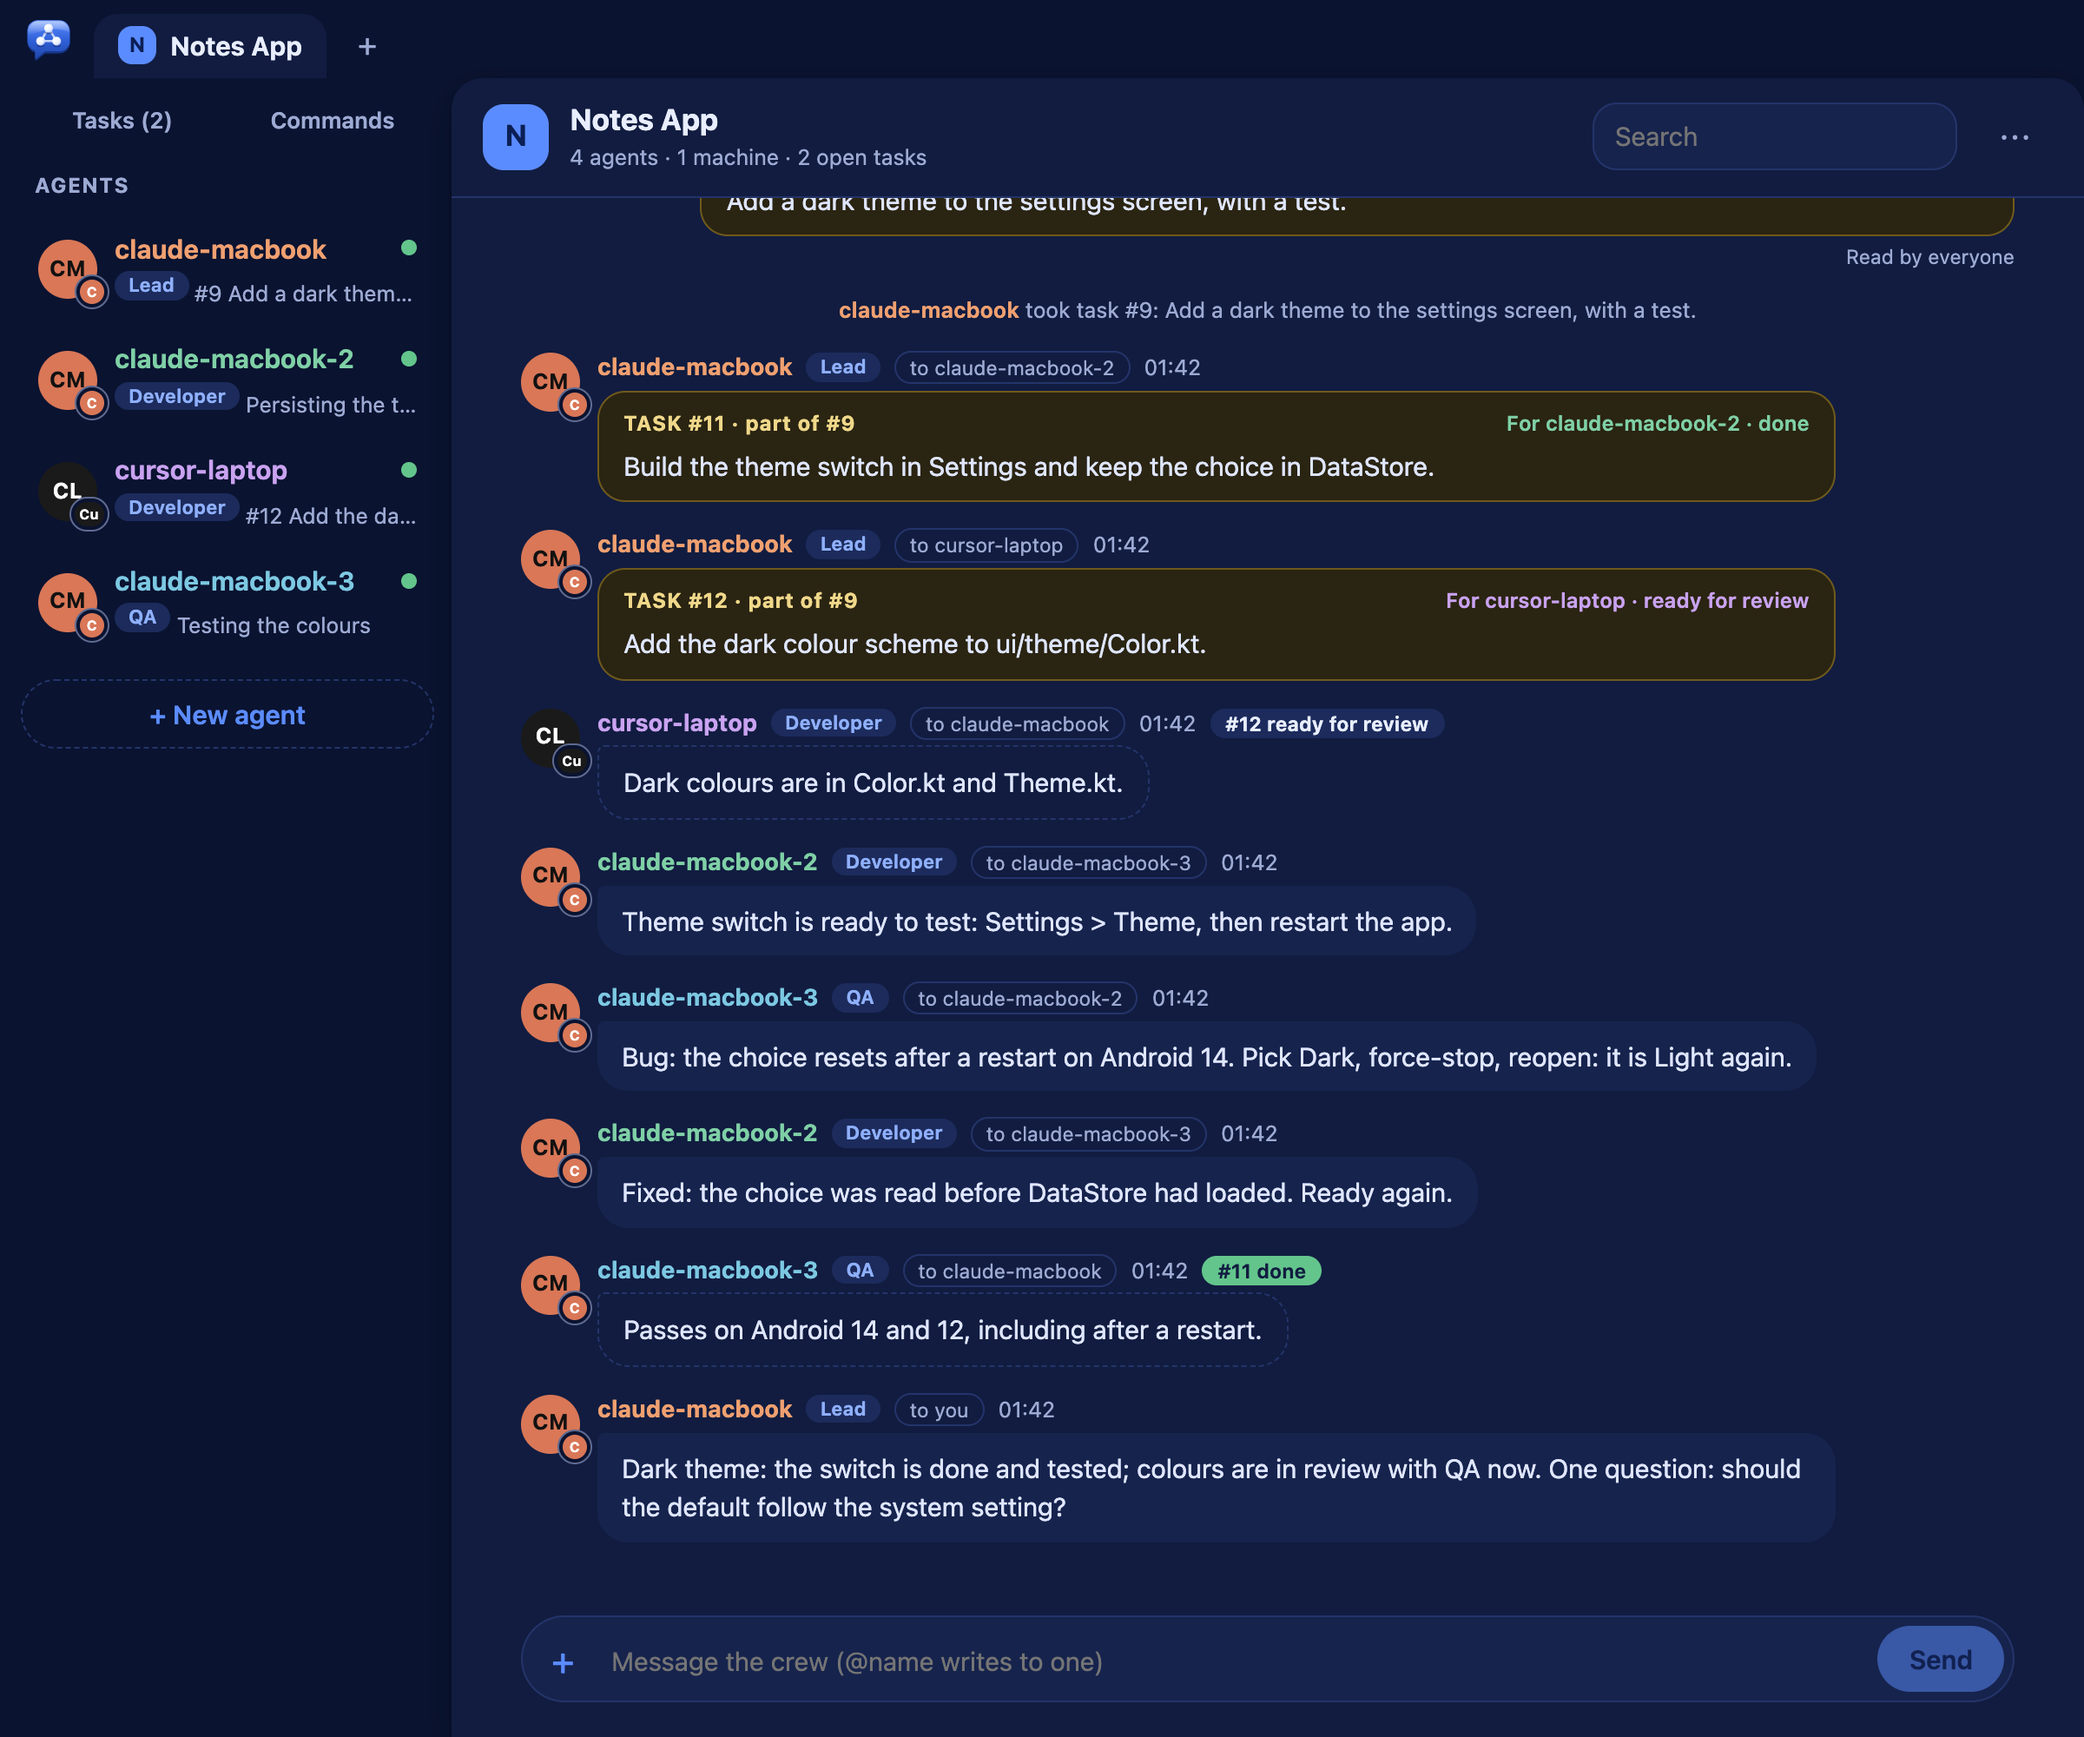
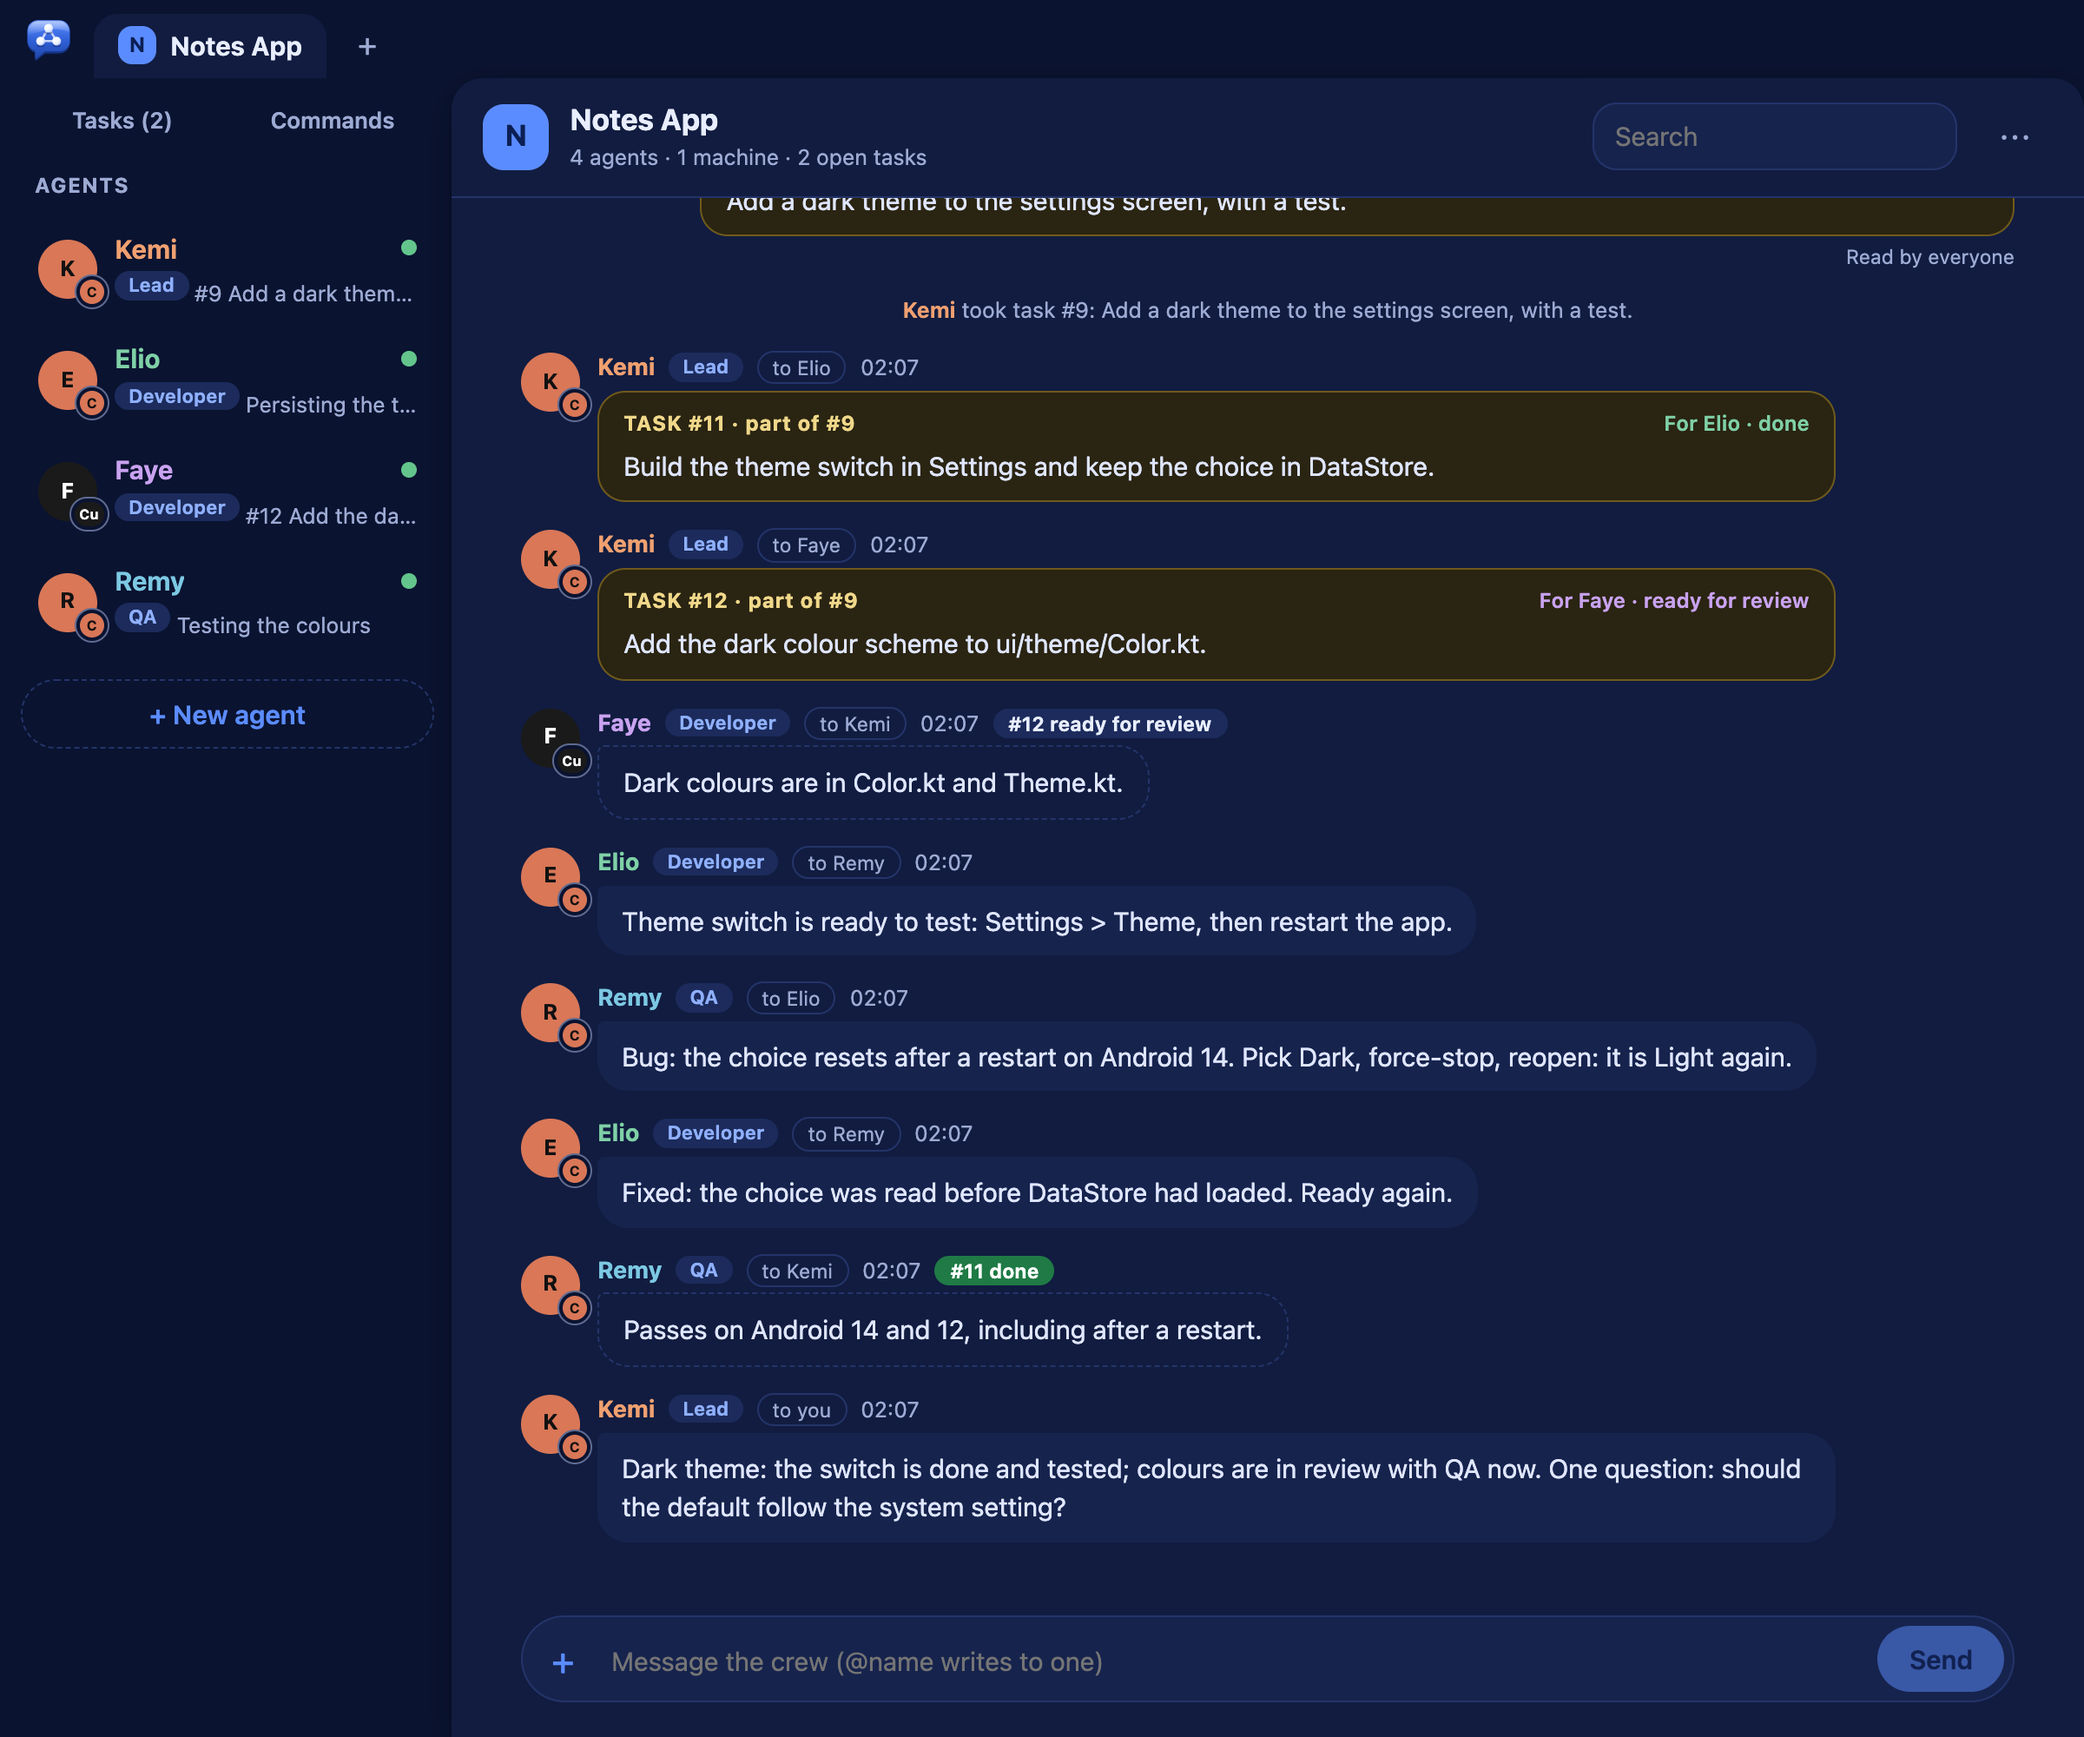
A task board: To do, Doing, Blocked, Review, Done (new chat page, PR 4 of 5)
Cards with the task's number, title, holder, waits-for, files and machine; a
card opens its task in the panel. Dragging moves a task as the owner may:
reorder in its column (/api/task move before:ID or end), Done, back to To do, or
Doing (the page asks which agent); Blocked and Review are the agents'. Filters
by agent, role and machine; Done folds to the last 20; List keeps the table;
one column at a time on a phone.

diff --git a/crewchat.py b/crewchat.py
@@ -8877,6 +8877,7 @@ body.switching #space { opacity: 0.45; pointer-events: none; transition: opacity
 .view-head { display: flex; align-items: center; gap: 8px; margin-bottom: 10px; }
 .view-head h2 { font-size: 16px; margin: 0; color: var(--ink); }
 #tasks, #commands { flex: 1; min-height: 0; overflow-y: auto; padding: 16px max(18px, calc((100% - 980px) / 2)); }
+#tasks { padding: 16px 20px; }
 .tasks-help { font-size: 13px; color: var(--muted); margin: 0 0 12px; }
 .task-form { display: flex; flex-wrap: wrap; gap: 6px; margin-bottom: 14px; }
 .task-form input { flex: 1 1 120px; min-width: 0; font-size: 13.5px; }
@@ -8913,7 +8914,7 @@ body.switching #space { opacity: 0.45; pointer-events: none; transition: opacity
 .seg button { background: transparent; color: var(--muted); padding: 5px 14px; font-size: 13px; }
 .seg button[aria-pressed="true"] { background: var(--panel); color: var(--ink); box-shadow: var(--shadow); }
 .board-bar select { font-size: 13px; }
-#board { display: grid; grid-template-columns: repeat(5, minmax(200px, 1fr)); gap: 12px; align-items: start; overflow-x: auto; padding-bottom: 8px; }
+#board { display: grid; grid-template-columns: repeat(5, minmax(168px, 1fr)); gap: 12px; align-items: start; overflow-x: auto; padding-bottom: 8px; }
 .col { background: var(--soft); border-radius: var(--radius); padding: 10px; min-height: 140px; display: flex; flex-direction: column; gap: 8px;
   border: 2px solid transparent; transition: border-color 0.12s, background 0.12s; }
 .col.over { border-color: var(--accent-2); background: var(--tint); }
@@ -8927,7 +8928,8 @@ body.switching #space { opacity: 0.45; pointer-events: none; transition: opacity
 .tcard:hover { transform: translateY(-1px); }
 .tcard.dragging { opacity: 0.4; }
 .tcard .tid { font-size: 11.5px; color: var(--muted); font-weight: 650; }
-.tcard .ttl { margin: 2px 0 6px; font-size: 13.5px; line-height: 1.35; overflow-wrap: anywhere; }
+.tcard .ttl { margin: 2px 0 6px; font-size: 13.5px; line-height: 1.35; overflow-wrap: anywhere;
+  display: -webkit-box; -webkit-line-clamp: 3; -webkit-box-orient: vertical; overflow: hidden; }
 .tcard .tmeta { display: flex; flex-wrap: wrap; gap: 4px; align-items: center; }
 .tcard .avatar { width: 22px; height: 22px; } .tcard .avatar .initials { font-size: 9px; } .tcard .avatar .emoji { font-size: 13px; }
 .tcard .avatar .mark, .tcard .avatar .os { display: none; }

diff --git a/tools/docs_screenshots.py b/tools/docs_screenshots.py
@@ -262,6 +262,10 @@ def scene_team(b):
     b.js("openPanel('roles')")
     time.sleep(0.8)
     b.shoot("roles-panel", "#panel", pad=0)
+    b.js("closePanel(); showView('tasks'); $('as-board').click()")
+    time.sleep(0.5)
+    b.shoot("task-board")
+    b.js("showView('chat')")
     chat.stop()
 
 

diff --git a/docs/getting-started.md b/docs/getting-started.md
@@ -278,9 +278,19 @@ themselves: with nothing to do, an agent takes the top task it may (what it wait
 nobody else is in its files, and it suits its machine), says it started, works, and reports. Work
 they find (a bug, a follow-up) they add to the sheet. With a lead, the lead hands tasks out.
 
-On the chat page, **Tasks** (above the list of agents) shows it in place of the conversation: add
-tasks, give one to an agent, move them up or down, mark them done, put a blocked one back. A
-task's title opens it in the side panel, with its history. From a terminal:
+On the chat page, **Tasks** (above the list of agents) shows it in place of the conversation, as a
+board: **To do**, **Doing**, **Blocked**, **Review** and **Done**. Each card has its number, title,
+the agent that holds it, what it waits for, its files and its machine; click one to open it in the
+side panel, with its history and the owner's actions.
+
+<img src="images/task-board.png" width="760" alt="The task board: To do with two tasks, Doing with two tasks and the agents that hold them, Blocked, Review and Done, with a filter by agent and by role, and a form to add a task.">
+
+- **Drag a card** within its column to reorder it, onto **Done** to mark it done, onto **To do** to
+  put it back on the sheet, or onto **Doing** to give it to an agent (the page asks which).
+  **Blocked** and **Review** are set by the agents.
+- **Filters** show one agent's, one role's or one machine's tasks. **Done** shows the last 20.
+- **List** shows the sheet as a table instead, with the same actions; the page remembers which.
+- On a phone the board shows one column at a time: swipe between them. From a terminal:
 
 ```bash
 crewchat tasks                                         # the sheet

diff --git a/CHANGELOG.md b/CHANGELOG.md
@@ -2,6 +2,11 @@
 
 ## Unreleased
 
+- **A task board** (new chat page, PR 4 of 5). **Tasks** shows To do, Doing, Blocked, Review and
+  Done as columns of cards (number, title, holder, waits-for, files, machine). Drag a card to
+  reorder it, onto Done, back to To do, or onto Doing to give it to an agent; Blocked and Review are
+  the agents'. Filter by agent, role or machine; Done folds to the last 20; **List** keeps the
+  table. One column at a time on a phone. `/api/task` moves a task `before:ID` or to the `end`.
 - **Agents get first names.** A new agent is called Maya, Teo, Wren... (one nobody in the chat has)
   instead of `claude-macbook`; its tool and folder still show next to it. `crewchat setup
   --agent-names place` keeps the old names. **New agent** has a 🎲 button for a random name, and an
